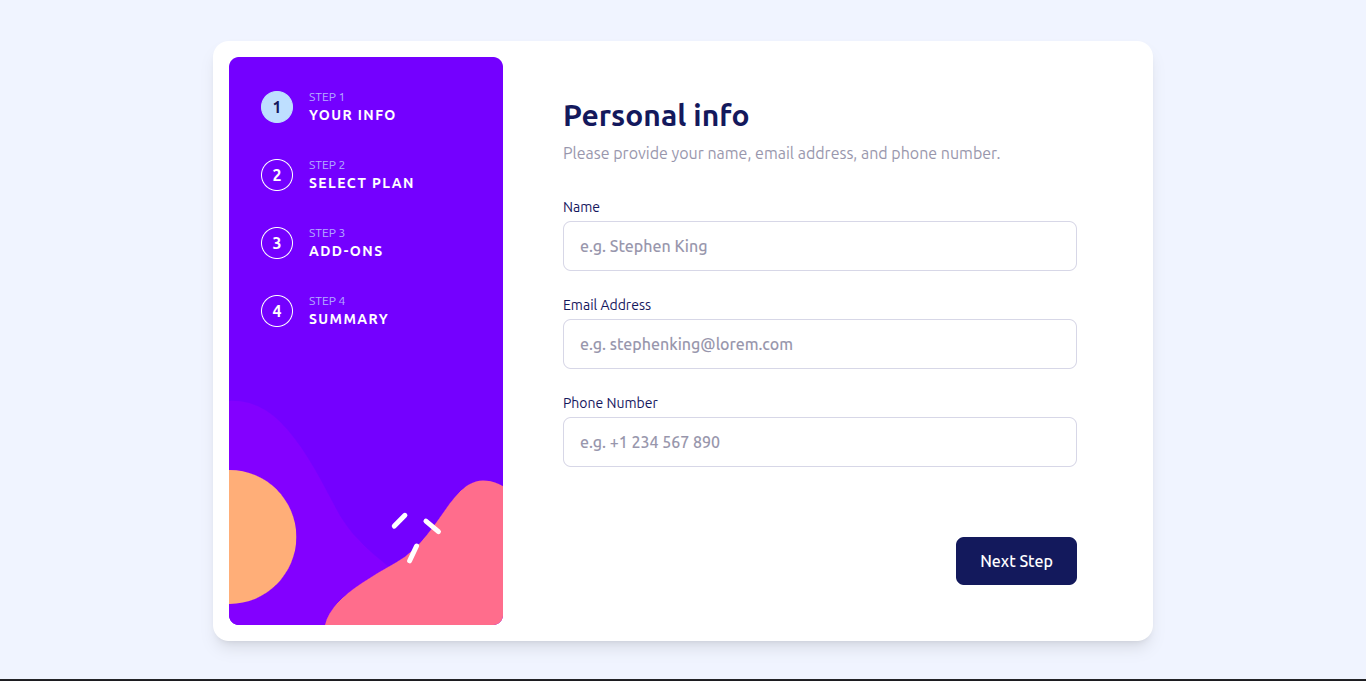
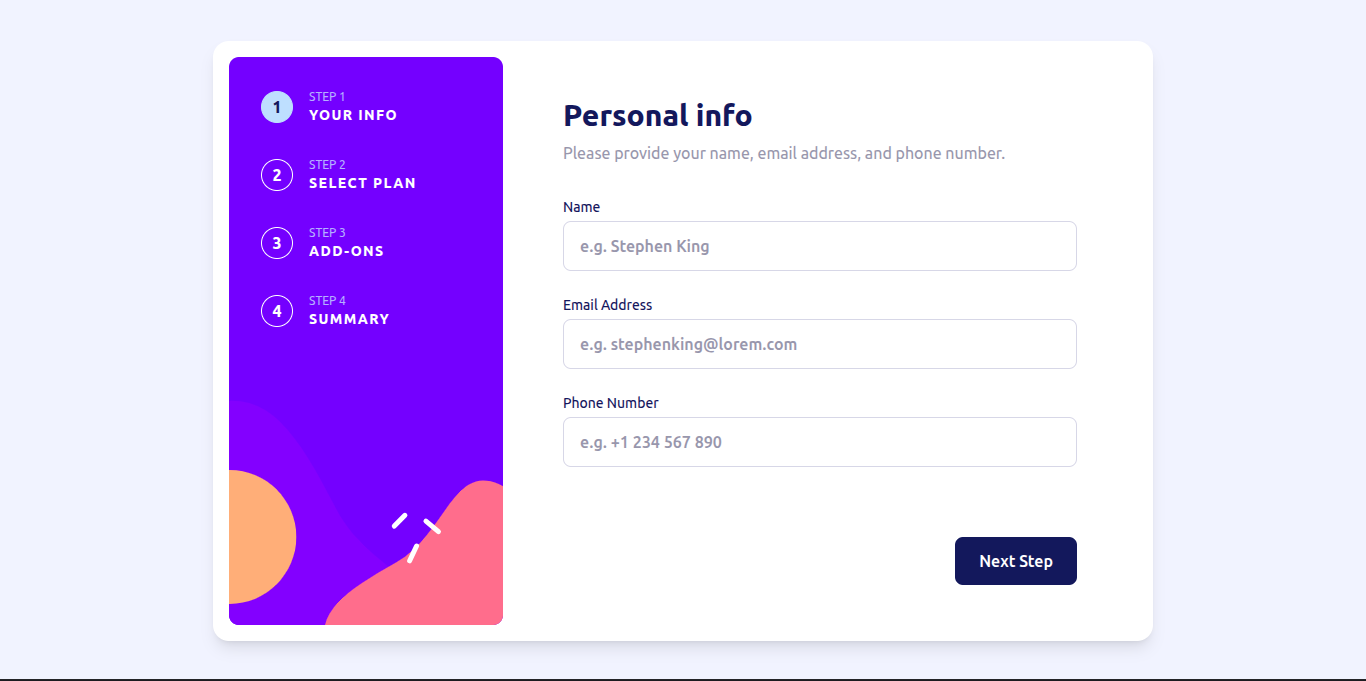
docs: add preview image to README

diff --git a/README.md b/README.md
@@ -6,6 +6,10 @@ A responsive multi-step subscription form, built as a solution to a [Frontend Me
 
 The form has 4 steps and a thank-you screen: personal info, plan selection, add-ons, and a summary. A sidebar shows which step you are on. The layout changes between mobile and desktop screen sizes, and every link and button has a hover state.
 
+## Preview
+
+![Multiple-step-form preview](./Preview.png)
+
 ## Features
 
 - Responsive layout for mobile and desktop screens
